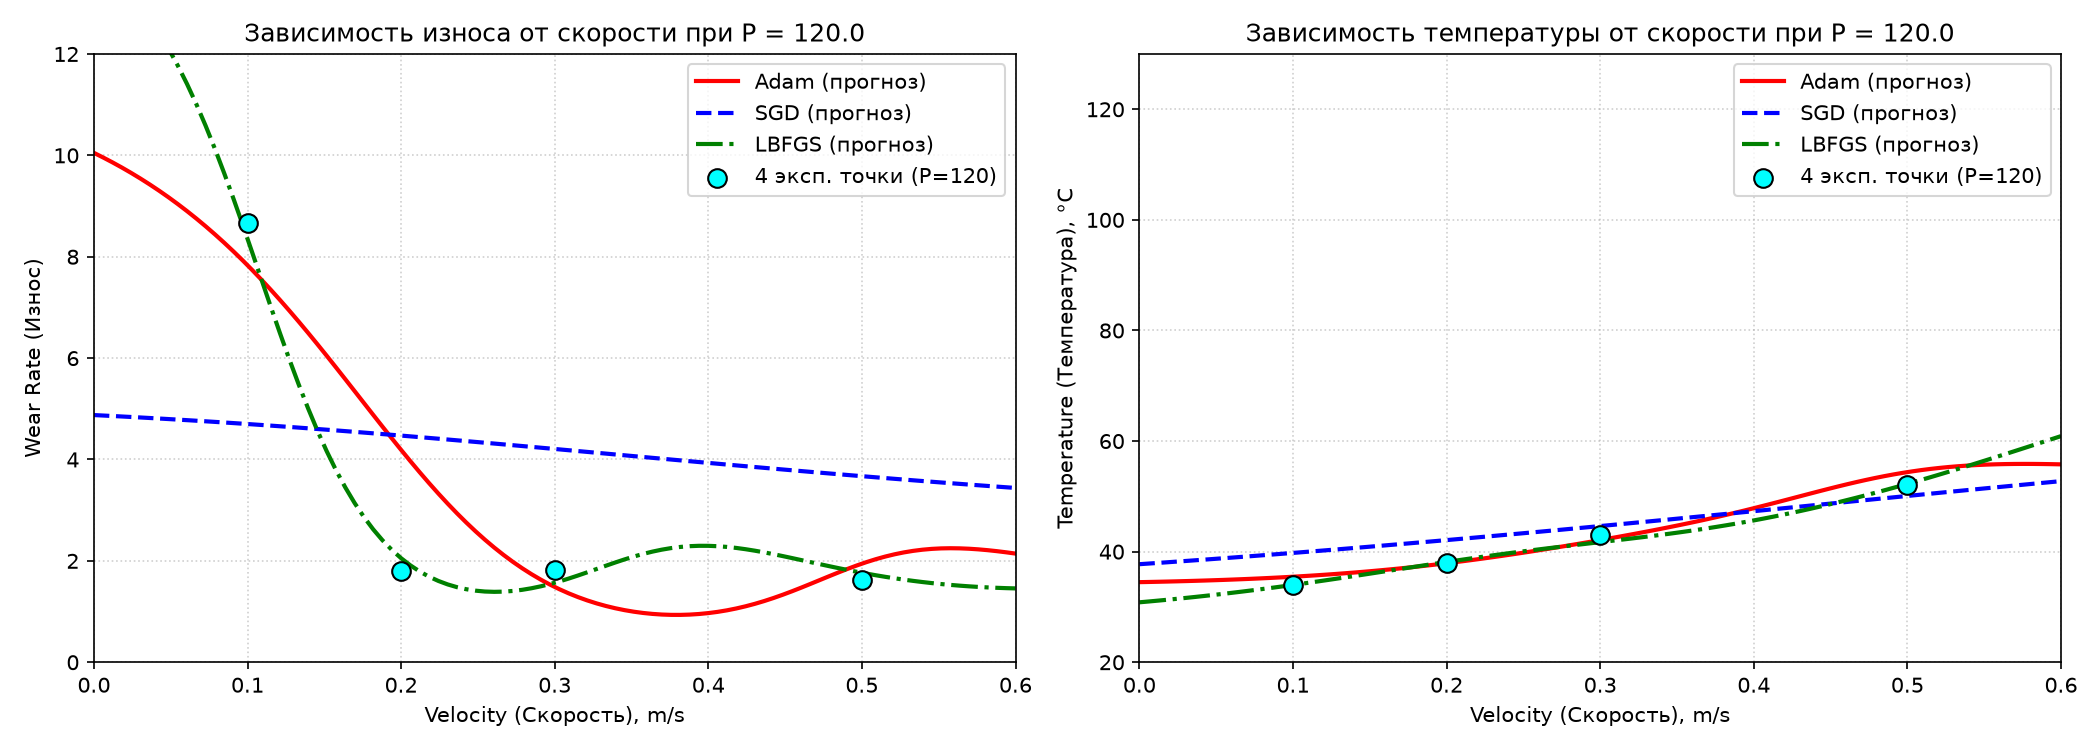
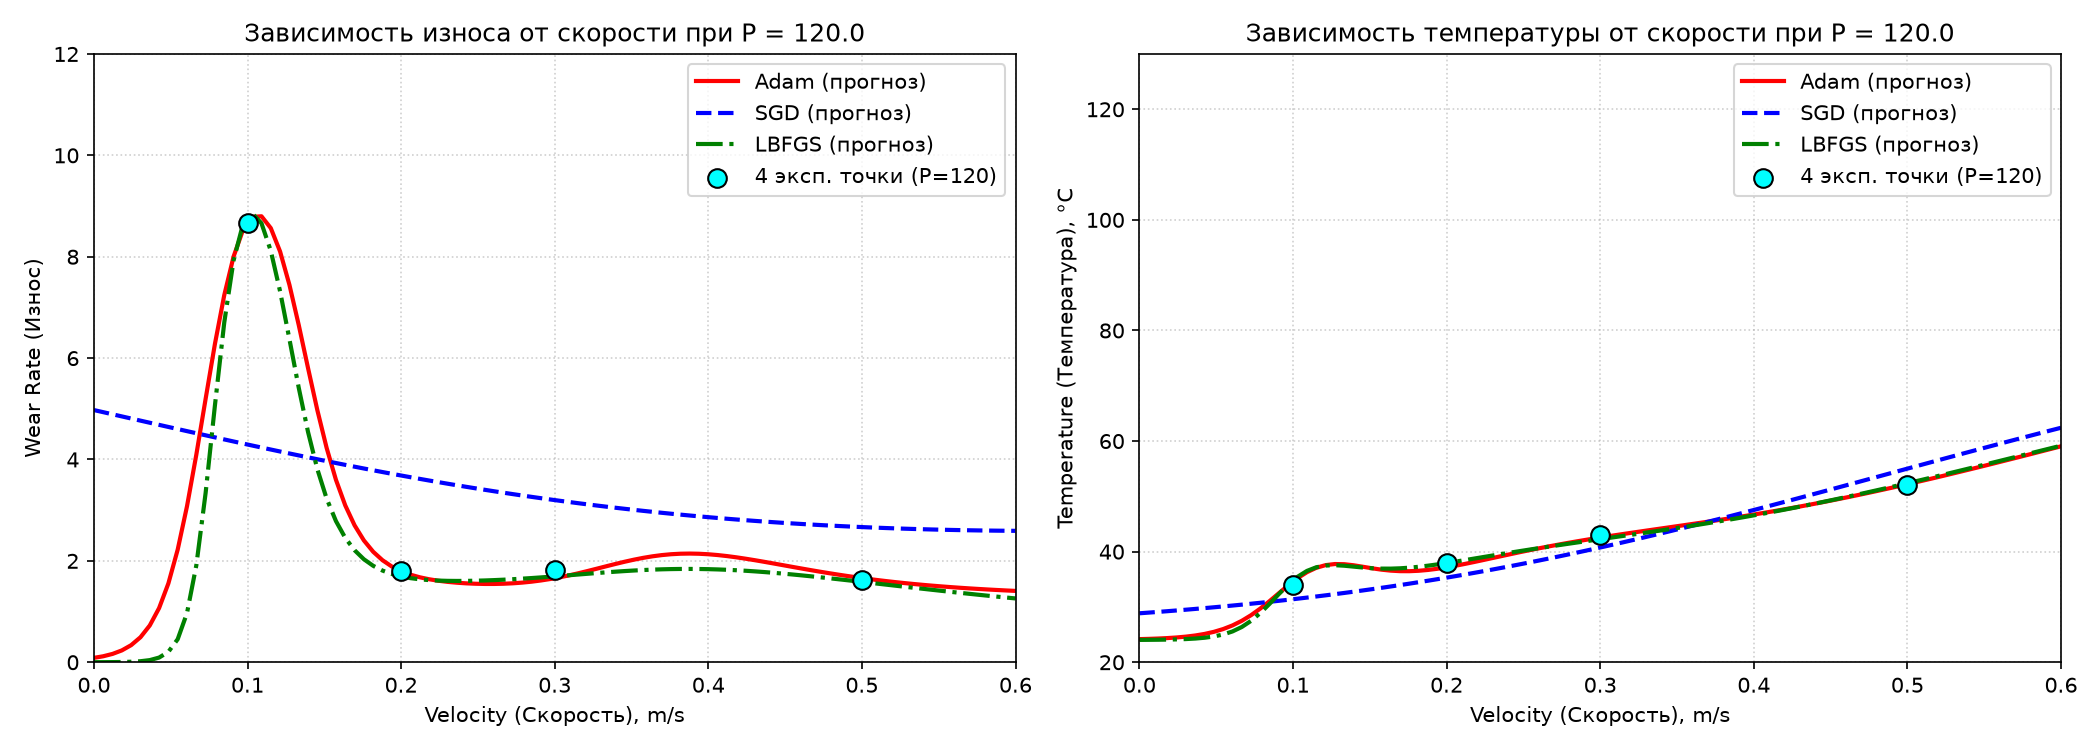
fixed number of hidden layers neurons + numpy practice

diff --git a/numpy_learn.py b/numpy_learn.py
@@ -1,0 +1,41 @@
+import numpy as np
+
+data = np.array([
+    [10.0, 200.0],
+    [12.5, 180.0],
+    [15.0, 190.0],
+    [9.0, 210.0],
+    [11.0, 205.0]
+])
+
+print("форма матрицы", data.shape)
+
+speeds = data[:, 0]
+print("все скорости", speeds)
+
+
+max_values = np.max(data, axis=0)
+print("наибольшие (скорость и давление)", max_values)
+
+
+normalized_data = data / max_values
+print("нормализованные данные: \n", normalized_data)
+
+
+experimental_results = np.array([  # скорость + давление + температура
+    [10.0, 200.0, 55.0],
+    [12.0, 180.0, 62.0],
+    [15.0, 190.0, 70.0],
+    [9.0,  210.0, 48.0],
+    [11.0, 205.0, 59.0],
+    [14.0, 195.0, 68.0]
+])
+
+X = experimental_results[:,:2]
+print(X.shape)
+
+Y = experimental_results[:, 2:]
+print(Y)
+
+T_mean = np.mean(Y)
+print(T_mean)
